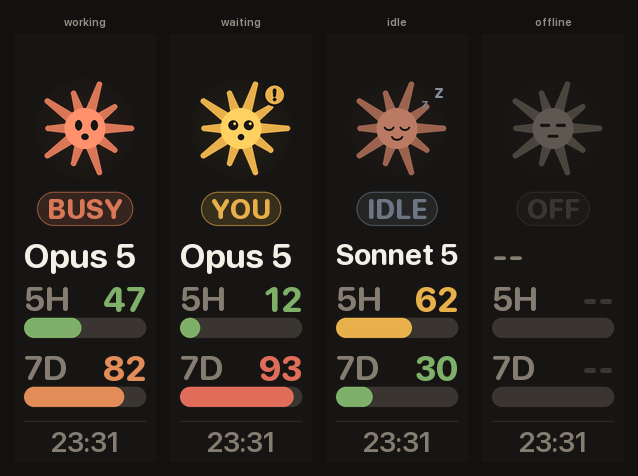
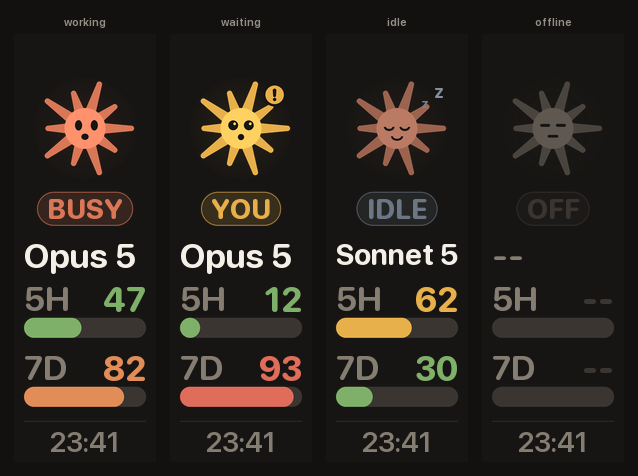
Fix the aliasing that was in the test card, and raise SS to where it pays
The panel read the resolution card clean: 1 px checkerboard, both 1 px gratings
and every block size crisp, so the device is not resampling 142x428 and the glass
is not the limit. The 8 px ladder agrees with DEAD_ZONE -- red above the line
invisible, green below it visible. "Bigger text is clearer" was type below the
readability threshold, which sizing from the physics already addressed.

The jagged disc and diagonal were real, and they were my fault. The card drew
both straight onto the native canvas with ImageDraw.ellipse and ImageDraw.line,
neither of which antialiases -- 2 grey levels, 0 and 255, hard steps -- while the
docstring claimed they came off the 4x vector layer. They never touched it. So
the artefact was in the diagnostic, not in the layout, and it sent a round of
investigation after a rendering bug that did not exist.

Measuring the real layout: the character's edges carry 152 distinct grey levels
with a one-to-two pixel ramp. disc() is draw.ellipse on the supersampled canvas,
which is a true ellipse rasteriser, and capsule() is two ellipses plus an honest
quadrilateral -- so the "polygon-approximated curve" theory does not apply here
either. Nothing needed fixing in the mascot.

Two changes fall out of that:

The card now runs an A/B. Left disc and diagonal go through the vector layer;
right pair is the same radius, slope and stroke drawn natively as the aliased
control. 99 grey levels against 2. Left smooth and right stepped means
[…]

diff --git a/keyboard_status.py b/keyboard_status.py
@@ -769,7 +769,12 @@ STATE_STYLE = {
 # ImageDraw does not antialias anything, and a jagged mascot on a 142 px panel is
 # immediately obvious. Drawing the shapes 4x and resampling down fixes it for the
 # cost of one 568x1712 RGBA buffer per frame.
-SS = 4
+# Supersampling factor for the vector layer. Measured, because the obvious knob is
+# not always the one that is stuck: stepping 4 -> 6 -> 8 -> 12 moves the number of
+# distinct edge grey levels 223 -> 243 -> 249 -> 247 and the worst-case pixel by
+# 60 -> 28 -> 20 of 255, so 8 is where it stops paying. Render goes 7.7 ms -> 15.7 ms
+# and the transient layer 3.9 MB -> 15.6 MB, which is nothing against a 5 s tick.
+SS = 8
 
 FONT_ROUNDED = "/System/Library/Fonts/SFNSRounded.ttf"
 FONT_TEXT = "/System/Library/Fonts/SFNS.ttf"
@@ -1246,10 +1251,20 @@ def testcard(config):
       256-304 16 px hard-edged blocks -- JPEG-safe control. Soft here = device, full
               stop, because nothing in our pipeline can blur an edge this coarse.
       304-390 text at 34 / 28 / 22, drawn at native size with no supersampling
-      390-428 a disc and a diagonal -- the only things on the card that are
-              *supposed* to have grey edge pixels, since curves come off the 4x
-              vector layer. Compare them with the blocks above: if the blocks are
-              crisp and these are smooth, that is antialiasing working, not blur.
+      390-428 an A/B on antialiasing, split by a hairline at x=70. Left disc and
+              diagonal go through the same supersampled vector layer the character
+              and the meters use. Right disc and diagonal are drawn straight onto
+              the native canvas with ImageDraw, which does not antialias at all --
+              that is the control, and it is *meant* to look stepped. Same radius,
+              same slope, same stroke width, so the only difference is the path.
+              Left smooth and right stepped means our antialiasing reaches the
+              glass. Both stepped means it does not. Both smooth means the panel
+              is softening everything, which the gratings above would already have
+              shown.
+
+    An earlier version of this card drew both shapes the native way and described
+    them as coming off the vector layer, which is exactly backwards and sent one
+    round of diagnosis down the wrong path. Hence the A/B.
     """
     from PIL import Image, ImageDraw
 
@@ -1282,9 +1297,19 @@ def testcard(config):
         write(draw, PAD, y, "Opus 8", font(size, 700), (255, 255, 255))
         y += cap_box(draw, font(size, 700))[1] + 8
 
-    # Curves, which are the one thing that legitimately arrives antialiased.
-    draw.ellipse([PAD, 392, PAD + 32, 424], fill=(255, 255, 255))
-    draw.line([(PAD + 44, 424), (width - PAD, 392)], fill=(255, 255, 255), width=2)
+    # Left: through the vector layer, the way every curve in the real layout is
+    # drawn. Same geometry on the right, drawn natively as the aliased control.
+    shapes = Image.new("RGBA", (width * SS, height * SS), (0, 0, 0, 0))
+    vector = ImageDraw.Draw(shapes)
+    white = (255, 255, 255, 255)
+    disc(vector, 21 * SS, 409 * SS, 13 * SS, white)
+    capsule(vector, (38 * SS, 422 * SS), (64 * SS, 396 * SS), 1.5 * SS, 1.5 * SS, white)
+    flattened = shapes.resize((width, height), Image.LANCZOS)
+    card.paste(flattened, (0, 0), flattened)
+
+    draw.line([(70, 392), (70, 426)], fill=(80, 80, 80), width=1)
+    draw.ellipse([78, 396, 104, 422], fill=(255, 255, 255))
+    draw.line([(108, 422), (134, 396)], fill=(255, 255, 255), width=3)
     return card
 
 

diff --git a/README.md b/README.md
@@ -142,6 +142,11 @@ coordinate is derived from `MASCOT_TOP` below it, and `docs/make_preview.py` fai
 the build if any state puts a single non-background pixel above the line. That
 leaves **358 usable rows**, which is the budget the layout is solved against.
 
+40 is measured, not assumed: `--testcard`'s top band is an 8 px ladder with the
+step above the line in red and the step below it in green. On the panel the red is
+invisible and the green is not, so the line is in the right place — if anything a
+row or two conservative, which is the direction to be wrong in.
+
 ### What is deliberately missing
 
 The project name, the git branch, the session title, the reset countdowns, the
@@ -183,11 +188,23 @@ used to throw three twinkles onto a wide orbit while working; they were ~9 arcmi
 what capped the character's size, because it clipped both margins first. Dropping
 them bought 6 px of bloom, which you can actually see.
 
-## Is it actually point-to-point?
+## Is it actually point-to-point? — yes
 
-The rendered frame is exactly 142×428 with no resampling anywhere in our pipeline,
-so a soft-looking panel has three possible causes, and guessing between them is
-pointless. `--testcard` settles it:
+**Tested on the glass, and the answer is yes.** The 1 px checkerboard, both 1 px
+gratings and every block size come up crisp on the panel, so the device is *not*
+resampling 142×428 to some other native grid, and the display is not the limiting
+factor. The 8 px ladder confirmed `DEAD_ZONE` too: the red band above the 40 px
+line is invisible, the green one below it is not.
+
+What was read as "blurry" was type below the readability threshold — the same
+observation as *"bigger text is clearer"*, which is what a 15 arcmin glyph looks
+like next to a 22 arcmin one, not what a soft panel looks like. That is fixed by
+[sizing from the physics](#how-the-sizes-were-chosen), not by a sharpening pass.
+
+The card is kept because it is how that got settled, and because it catches the
+opposite failure too — see [the antialiasing A/B](#the-antialiasing-ab).
+
+`--testcard` renders it:
 
 ```sh
 keyboard_status.py --testcard              # POST it to the panel
@@ -206,7 +223,7 @@ Geometry only — no state, no layout, and no fonts on the fine bands:
 | 192–256 | 2 px and 4 px vertical lines | if even 4 px is soft, it is the panel itself |
 | 256–304 | 16 px hard-edged blocks | **the control.** Nothing in our pipeline can blur an edge this coarse |
 | 304–390 | text at 34 / 28 / 22, native size | compare against the blocks |
-| 390–428 | a disc and a diagonal | the only things that *should* have grey edge pixels |
+| 390–428 | **antialiasing A/B**, split by a hairline at x=70 | left pair smooth, right pair stepped = working |
 
 ### What was ruled out on this side, with numbers
 
@@ -239,10 +256,46 @@ Two of the three suspects are therefore dead:
   of a letter at this size are FreeType antialiasing, and removing them would make
   22 px type look worse, not sharper.
 
-Which leaves the third: if the fine bands read as flat grey while the 16 px blocks
-are crisp, the device is resampling 142×428 to some other native panel resolution,
-and nothing on this side reaches that. See
-[known limitations](#known-limitations).
+And the third suspect — device-side rescaling — is the one the card was built to
+catch, and it came back clean.
+
+### The antialiasing A/B
+
+Softness and jaggedness are opposite failures that both read as "wrong" from a
+foot away, so the last band tests for the other one. Left disc and diagonal go
+through the supersampled vector layer that draws every curve in the real layout;
+right disc and diagonal are the same radius, slope and stroke width drawn straight
+onto the native canvas with `ImageDraw`, which does not antialias at all.
+
+| | Distinct grey levels on the edge |
+| --- | --- |
+| left — vector layer | **99** |
+| right — native `ImageDraw` | **2** (`0` and `255`) |
+
+So left smooth and right stepped means antialiasing is reaching the glass; both
+stepped means it is not.
+
+The first version of this card got that wrong in a way worth recording: it drew
+*both* shapes the native way while describing them as coming off the vector layer.
+They were therefore genuinely aliased — 2 grey levels, hard steps — the jaggedness
+was real, and it was in the diagnostic rather than in the layout. One round of
+investigation went looking for a rendering bug that was in the test.
+
+Measuring the real layout instead: the character's edges carry **152 distinct
+levels** with a one-to-two pixel ramp. Nothing was wrong there. But the check did
+turn up a knob that was set too low, so it got measured properly rather than
+guessed at:
+
+| `SS` | Edge grey levels | Worst pixel vs previous | Median render |
+| --- | --- | --- | --- |
+| 4 | 223 | — | 7.7 ms |
+| 6 | 243 | 60 / 255 | 11.4 ms |
+| **8** | **249** | 28 / 255 | 15.7 ms |
+| 12 | 247 | 20 / 255 | 32.9 ms |
+
+`SS` is now **8**. Twelve buys nothing — the level count goes *down*, which is
+LANCZOS noise — and doubles the cost, so 8 is where it stops paying. 15.7 ms and a
+15.6 MB transient layer against a 5-second tick is not a trade worth thinking about.
 
 ## Why a daemon *and* hooks
 
@@ -355,7 +408,7 @@ mostly useful for one-off runs.
 | `--daemon` | run the push loop in the foreground (what launchd runs) |
 | `--once` | render and push a single frame; exits non-zero if the push failed |
 | `--preview out.png [state]` | render to a file without pushing; force a pose to see it |
-| `--testcard [PATH]` | the resolution card: POST it, or write it to `PATH` |
+| `--testcard [PATH]` | the resolution + antialiasing card: POST it, or write it to `PATH` |
 | `--status` | dump the resolved status as JSON — the first stop when debugging |
 
 Logs go to `~/.claude/keyboard-status.log`.
@@ -391,13 +444,6 @@ layout looks the way it does.
 - **One session on screen at a time.** With several sessions running, the panel
   follows whichever moved most recently, and does not say which one it picked —
   `--status` does. There is no room on 142 px to do better.
-- **The panel may be resampling us, and we would not know.** 142×428 is the size
-  the upload API accepts; whether it is the glass's native grid is not something
-  the device reports. Our side is verifiably point-to-point — see
-  [is it actually point-to-point?](#is-it-actually-point-to-point) for the
-  per-band numbers — so if `--testcard`'s 1 px bands come up as flat grey while its
-  16 px blocks are crisp, the resampling is happening downstream of the POST and
-  there is no setting on this side that reaches it. Nothing to do but know it.
 - **No authentication, no TLS.** The device offers neither, so the daemon assumes a
   LAN it trusts. Do not expose that endpoint to a network you do not control.
 - **A sleeping panel drops frames.** Some of these keyboards power the display down
